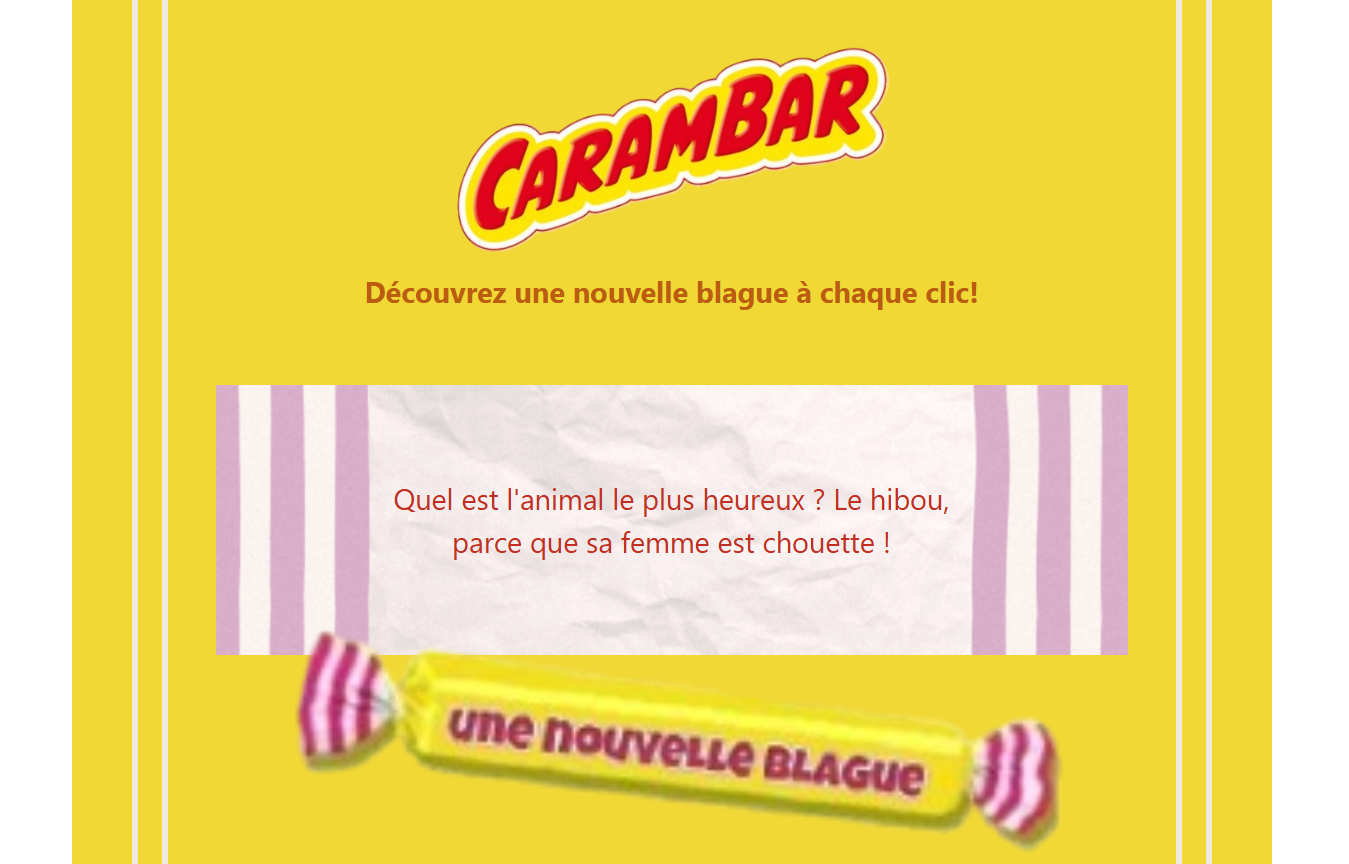
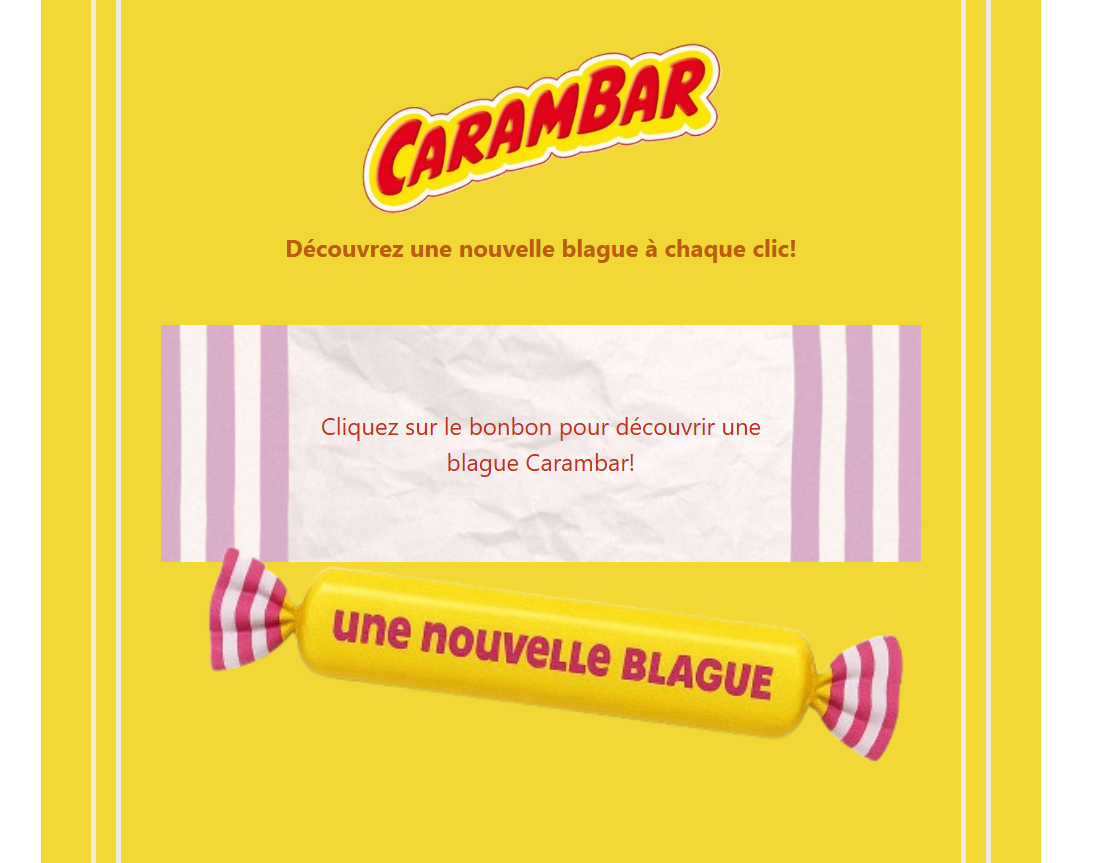
Fix the button quality.

diff --git a/dist/js/app.a4dc136a.js b/dist/js/app.a4dc136a.js
@@ -1,0 +1,2 @@
+(function(){"use strict";var e={267:function(e,n,r){var o=r(751),t=r(641);function a(e,n,r,o,a,i){const c=(0,t.g2)("JokeComponent");return(0,t.uX)(),(0,t.Wv)(c)}var i=r(33),c=r.p+"img/logo.d6dd189b.png",u=r.p+"img/loading.9feee284.svg",l=r.p+"img/button.a14af080.png";const s={class:"carambar-container"},f={key:0,class:"spinner-wrapper"},d=["innerHTML"],p={key:2,class:"error-text"},g={key:3,class:"placeholder-text"},b=["disabled"];function v(e,n,r,o,a,v){return(0,t.uX)(),(0,t.CE)("div",s,[n[3]||(n[3]=(0,t.Lk)("div",{class:"logo-container"},[(0,t.Lk)("img",{src:c,alt:"Logo Carambar",class:"logo"}),(0,t.Lk)("p",{class:"tagline"},"Découvrez une nouvelle blague à chaque clic!")],-1)),(0,t.Lk)("div",{class:(0,i.C4)(["joke-paper",{loading:e.loading}])},[e.loading?((0,t.uX)(),(0,t.CE)("div",f,n[1]||(n[1]=[(0,t.Lk)("img",{src:u,alt:"Chargement...",class:"loading-svg"},null,-1)]))):(0,t.Q3)("",!0),e.joke?((0,t.uX)(),(0,t.CE)("p",{key:1,class:"joke-text",innerHTML:e.joke.text},null,8,d)):e.error?((0,t.uX)(),(0,t.CE)("p",p,(0,i.v_)(e.error),1)):((0,t.uX)(),(0,t.CE)("p",g," Cliquez sur le bonbon pour découvrir une blague Carambar! "))],2),(0,t.Lk)("button",{onClick:n[0]||(n[0]=(...n)=>e.fetchRandomJoke&&e.fetchRandomJoke(...n)),class:"candy-button",disabled:e.loading},n[2]||(n[2]=[(0,t.Lk)("img",{src:l,alt:"Une nouvelle blague"},null,-1)]),8,b)])}var m=r(335);function h(){return{API_BASE_URL:"https://carambar-api-h0la.onrender.com/"}}const k=h(),y=m.A.create({baseURL:k.API_BASE_URL,headers:{"Content-Type":"application/json"}});var C={async getRandomJoke(){const e=await y.get("/api/v1/jokes/random");return e.data}},j=(0,t.pM)({name:"JokeComponent",data(){return{joke:null,loading:!1,error:""}},methods:{async fetchRandomJoke(){this.loading=!0,this.error="";const e=Date.now();try{this.joke=await C.getRandomJoke()}catch(n){this.error="Impossible de récupérer une blague. Veuillez réessayer.",console.error("Erreur lors de la récupération de la blague:",n)}finally{const n=Date.now()-e,r=500;n<r&&await new Promise((e=>setTimeout(e,r-n))),this.loading=!1}}}}),w=r(262);const L=(0,w.A)(j,[["render",v],["__scopeId","data-v-8ef8d0f2"]]);var O=L,E=(0,t.pM)({name:"App",components:{JokeComponent:O}});const _=(0,w.A)(E,[["render",a]]);var A=_,x=r(220);const J=[],R=(0,x.aE)({history:(0,x.LA)("/carambar-front/"),routes:J});var T=R;(0,o.Ef)(A).use(T).mount("#app")}},n={};function r(o){var t=n[o];if(void 0!==t)return t.exports;var a=n[o]={exports:{}};return e[o](a,a.exports,r),a.exports}r.m=e,function(){var e=[];r.O=function(n,o,t,a){if(!o){var i=1/0;for(s=0;s<e.length;s++){o=e[s][0],t=e[s][1],a=e[s][2];for(var c=!0,u=0;u<o.length;u++)(!1&a||i>=a)&&Object.keys(r.O).every((function(e){return r.O[e](o[u])}))?o.splice(u--,1):(c=!1,a<i&&(i=a));if(c){e.splice(s--,1);var l=t();void 0!==l&&(n=l)}}return n}a=a||0;for(var s=e.length;s>0&&e[s-1][2]>a;s--)e[s]=e[s-1];e[s]=[o,t,a]}}(),function(){r.d=function(e,n){for(var o in n)r.o(n,o)&&!r.o(e,o)&&Object.defineProperty(e,o,{enumerable:!0,get:n[o]})}}(),function(){r.g=function(){if("object"===typeof globalThis)return globalThis;try{return this||new Function("return this")()}catch(e){if("object"===typeof window)return window}}()}(),function(){r.o=function(e,n){return Object.prototype.hasOwnProperty.call(e,n)}}(),function(){r.r=function(e){"undefined"!==typeof Symbol&&Symbol.toStringTag&&Object.defineProperty(e,Symbol.toStringTag,{value:"Module"}),Object.defineProperty(e,"__esModule",{value:!0})}}(),function(){r.p="/carambar-front/"}(),function(){var e={524:0};r.O.j=function(n){return 0===e[n]};var n=function(n,o){var t,a,i=o[0],c=o[1],u=o[2],l=0;if(i.some((function(n){return 0!==e[n]}))){for(t in c)r.o(c,t)&&(r.m[t]=c[t]);if(u)var s=u(r)}for(n&&n(o);l<i.length;l++)a=i[l],r.o(e,a)&&e[a]&&e[a][0](),e[a]=0;return r.O(s)},o=self["webpackChunkcarambar_front"]=self["webpackChunkcarambar_front"]||[];o.forEach(n.bind(null,0)),o.push=n.bind(null,o.push.bind(o))}();var o=r.O(void 0,[504],(function(){return r(267)}));o=r.O(o)})();
+//# sourceMappingURL=app.a4dc136a.js.map

diff --git a/dist/css/app.099a8abf.css b/dist/css/app.099a8abf.css
@@ -1,0 +1,1 @@
+.carambar-container[data-v-8ef8d0f2]{display:flex;flex-direction:column;align-items:center;max-width:800px;margin:0 auto;padding:20px;background-color:#f1d834;background-image:linear-gradient(90deg,#f1d834,#f1d834 40px,#eeeadf 0,#eeeadf 44px,#f1d834 0,#f1d834 60px,#eeeadf 0,#eeeadf 64px,#f1d834 0,#f1d834 calc(100% - 64px),#eeeadf calc(100% - 64px),#eeeadf calc(100% - 60px),#f1d834 calc(100% - 60px),#f1d834 calc(100% - 44px),#eeeadf calc(100% - 44px),#eeeadf calc(100% - 40px),#f1d834 calc(100% - 40px),#f1d834);background-size:100% 100%;background-position:50%;min-height:100vh}.logo-container[data-v-8ef8d0f2]{text-align:center;margin-bottom:2rem}.logo[data-v-8ef8d0f2]{max-width:300px;height:auto}.tagline[data-v-8ef8d0f2]{color:rgba(185,88,14,.969);font-size:1.2rem;margin-top:.5rem;font-weight:700}.joke-paper[data-v-8ef8d0f2]{background-image:url(/carambar-front/img/papier.3b92f138.jpg);background-size:100% 100%;background-repeat:no-repeat;background-position:50%;position:relative;width:80%;height:190px;padding:30px;margin-bottom:2rem;display:flex;justify-content:center;align-items:center;text-align:center;transition:opacity .3s}.spinner-wrapper[data-v-8ef8d0f2]{position:absolute;top:0;left:0;width:100%;height:100%;display:flex;justify-content:center;align-items:center;background-color:transparent;z-index:2}.loading-svg[data-v-8ef8d0f2]{width:350px;height:350px}.error-text[data-v-8ef8d0f2],.joke-text[data-v-8ef8d0f2],.placeholder-text[data-v-8ef8d0f2]{font-size:1.2rem;color:#c32e21;max-width:70%;word-wrap:break-word;margin:0 auto}.error-text[data-v-8ef8d0f2]{color:#d9534f}.candy-button[data-v-8ef8d0f2]{background:transparent;border:none;cursor:pointer;transition:transform .3s;padding:0;width:600px;margin-top:-60px;position:relative;z-index:1000;display:flex;justify-content:center}.candy-button img[data-v-8ef8d0f2]{width:100%;height:auto}.candy-button[data-v-8ef8d0f2]:hover{transform:scale(1.05)}.candy-button[data-v-8ef8d0f2]:active{transform:scale(.98)}.candy-button[data-v-8ef8d0f2]:disabled{opacity:.7;cursor:not-allowed}@media(max-width:768px){.logo[data-v-8ef8d0f2]{max-width:220px}.joke-paper[data-v-8ef8d0f2]{padding:20px}.error-text[data-v-8ef8d0f2],.joke-text[data-v-8ef8d0f2],.placeholder-text[data-v-8ef8d0f2]{font-size:1rem}.candy-button[data-v-8ef8d0f2]{width:150px}}@media(max-width:480px){.carambar-container[data-v-8ef8d0f2]{padding:15px}.logo[data-v-8ef8d0f2]{max-width:180px}.tagline[data-v-8ef8d0f2]{font-size:1rem}.candy-button[data-v-8ef8d0f2]{width:120px}}body{margin:0;padding:0;font-family:Arial,sans-serif;overflow-x:hidden}#app{min-height:100vh}

diff --git a/dist/index.html b/dist/index.html
@@ -1,1 +1,1 @@
-<!doctype html><html lang=""><head><meta charset="utf-8"><meta http-equiv="X-UA-Compatible" content="IE=edge"><meta name="viewport" content="width=device-width,initial-scale=1"><link rel="icon" href="/carambar-front/favicon.ico"><title>carambar-front</title><script defer="defer" src="/carambar-front/js/chunk-vendors.c738e691.js"></script><script defer="defer" src="/carambar-front/js/app.592a10c6.js"></script><link href="/carambar-front/css/chunk-vendors.4e342447.css" rel="stylesheet"><link href="/carambar-front/css/app.e045b0a1.css" rel="stylesheet"></head><body><noscript><strong>We're sorry but carambar-front doesn't work properly without JavaScript enabled. Please enable it to continue.</strong></noscript><div id="app"></div></body></html>
+<!doctype html><html lang=""><head><meta charset="utf-8"><meta http-equiv="X-UA-Compatible" content="IE=edge"><meta name="viewport" content="width=device-width,initial-scale=1"><link rel="icon" href="/carambar-front/favicon.ico"><title>carambar-front</title><script defer="defer" src="/carambar-front/js/chunk-vendors.c738e691.js"></script><script defer="defer" src="/carambar-front/js/app.a4dc136a.js"></script><link href="/carambar-front/css/chunk-vendors.4e342447.css" rel="stylesheet"><link href="/carambar-front/css/app.099a8abf.css" rel="stylesheet"></head><body><noscript><strong>We're sorry but carambar-front doesn't work properly without JavaScript enabled. Please enable it to continue.</strong></noscript><div id="app"></div></body></html>

diff --git a/src/components/JokeComponent.vue b/src/components/JokeComponent.vue
@@ -218,8 +218,10 @@ Positionné avec un décalage négatif pour créer un effet de superposition
   cursor: pointer;
   transition: transform 0.3s;
   padding: 0;
-  width: 1500px;
-  margin-top: -400px;
+  width: 600px;
+  margin-top: -60px;
+  position: relative;
+  z-index: 1000; // Pour s'assurer que le bouton soit au-dessus du papier
   display: flex;
   justify-content: center;
 

diff --git a/README.md b/README.md
@@ -20,6 +20,8 @@ Ce repository présente une interface utilisateur intuitive permettant de décou
 - Interface responsive et intuitive
 - Intégration avec l'API backend
 
+## Configuration
+Dans le fichier .env et .env.production, la variable VUE_APP_API_BASE_URL permet de définir l'URL de base du serveur API.
 
 ## Installation et démarrage
 `bash`
@@ -41,6 +43,27 @@ Ce repository présente une interface utilisateur intuitive permettant de décou
 - **JokeComponent:** Affiche une blague comprenant une question et une réponse
 
 ## Structure du projet côté frontend
+carambar-front/  
+├── public/  
+│   ├── index.html  
+│   └── favicon.ico  
+├── src/  
+│   ├── assets/  
+│   │   └── styles/  
+│   │       └── main.scss  
+│   ├── components/  
+│   │   └── JokeComponent.vue  
+│   ├── services/  
+│   │   └── api.ts  
+│   ├── views/  
+│   │   └── HomeView.vue  
+│   ├── App.vue  
+│   └── main.ts  
+├── .gitignore  
+├── package.json  
+├── tsconfig.json  
+├── vue.config.js  
+└── README.md  
 
 
 ## Responsive Design
